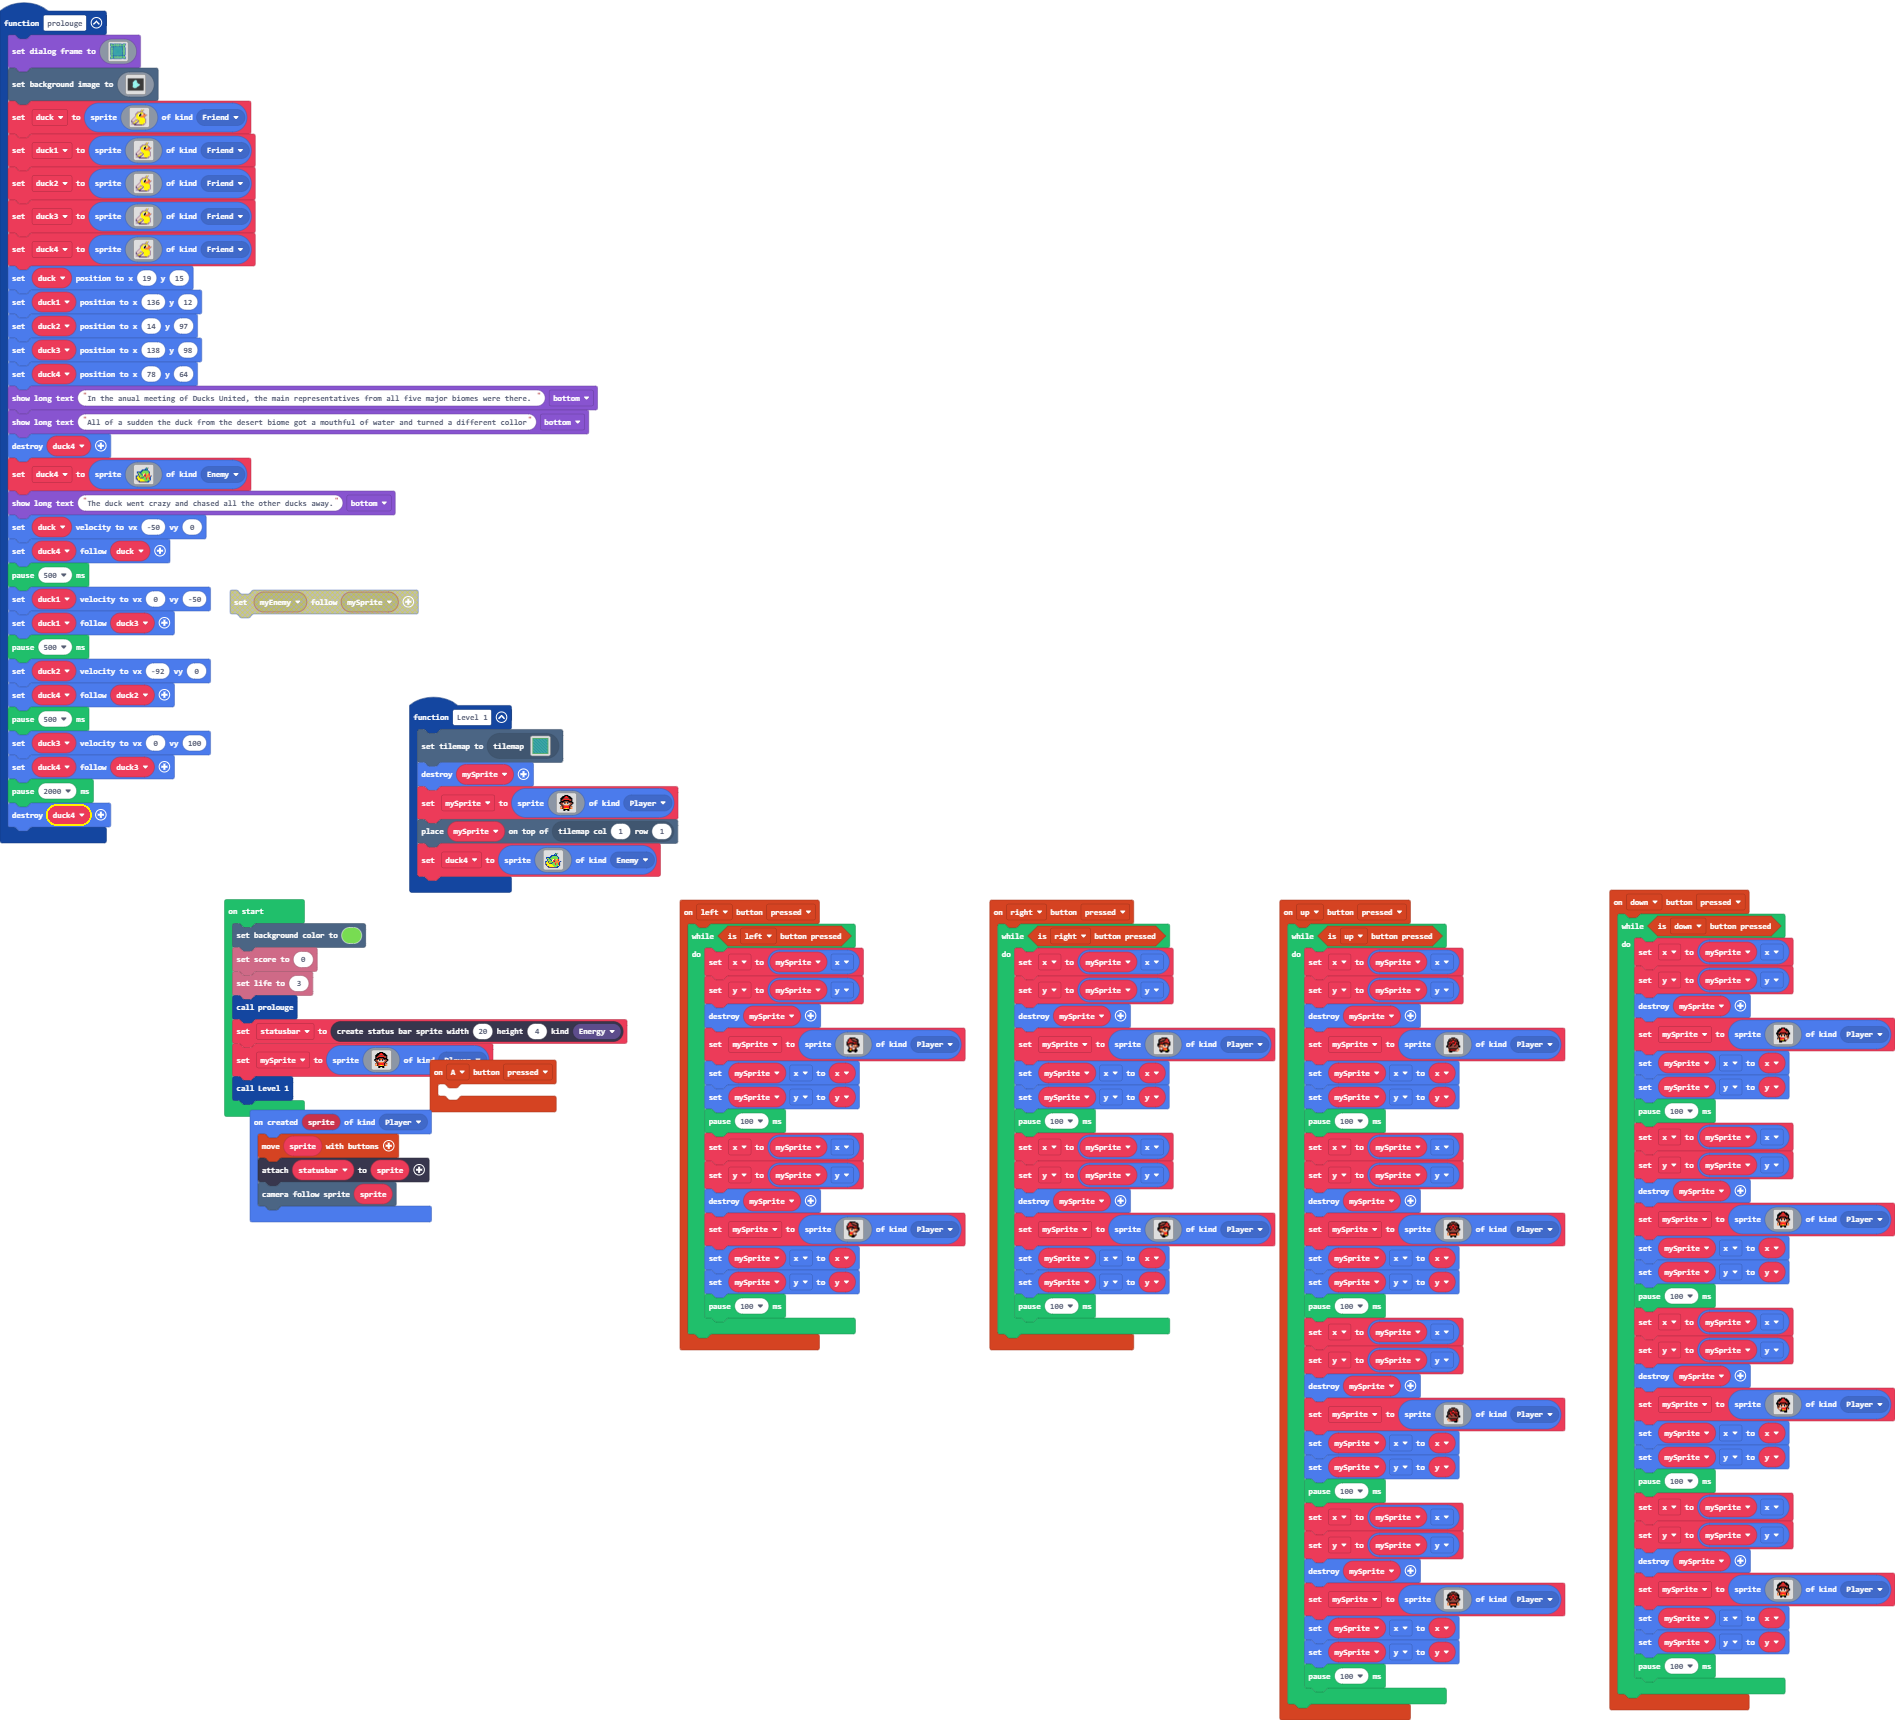
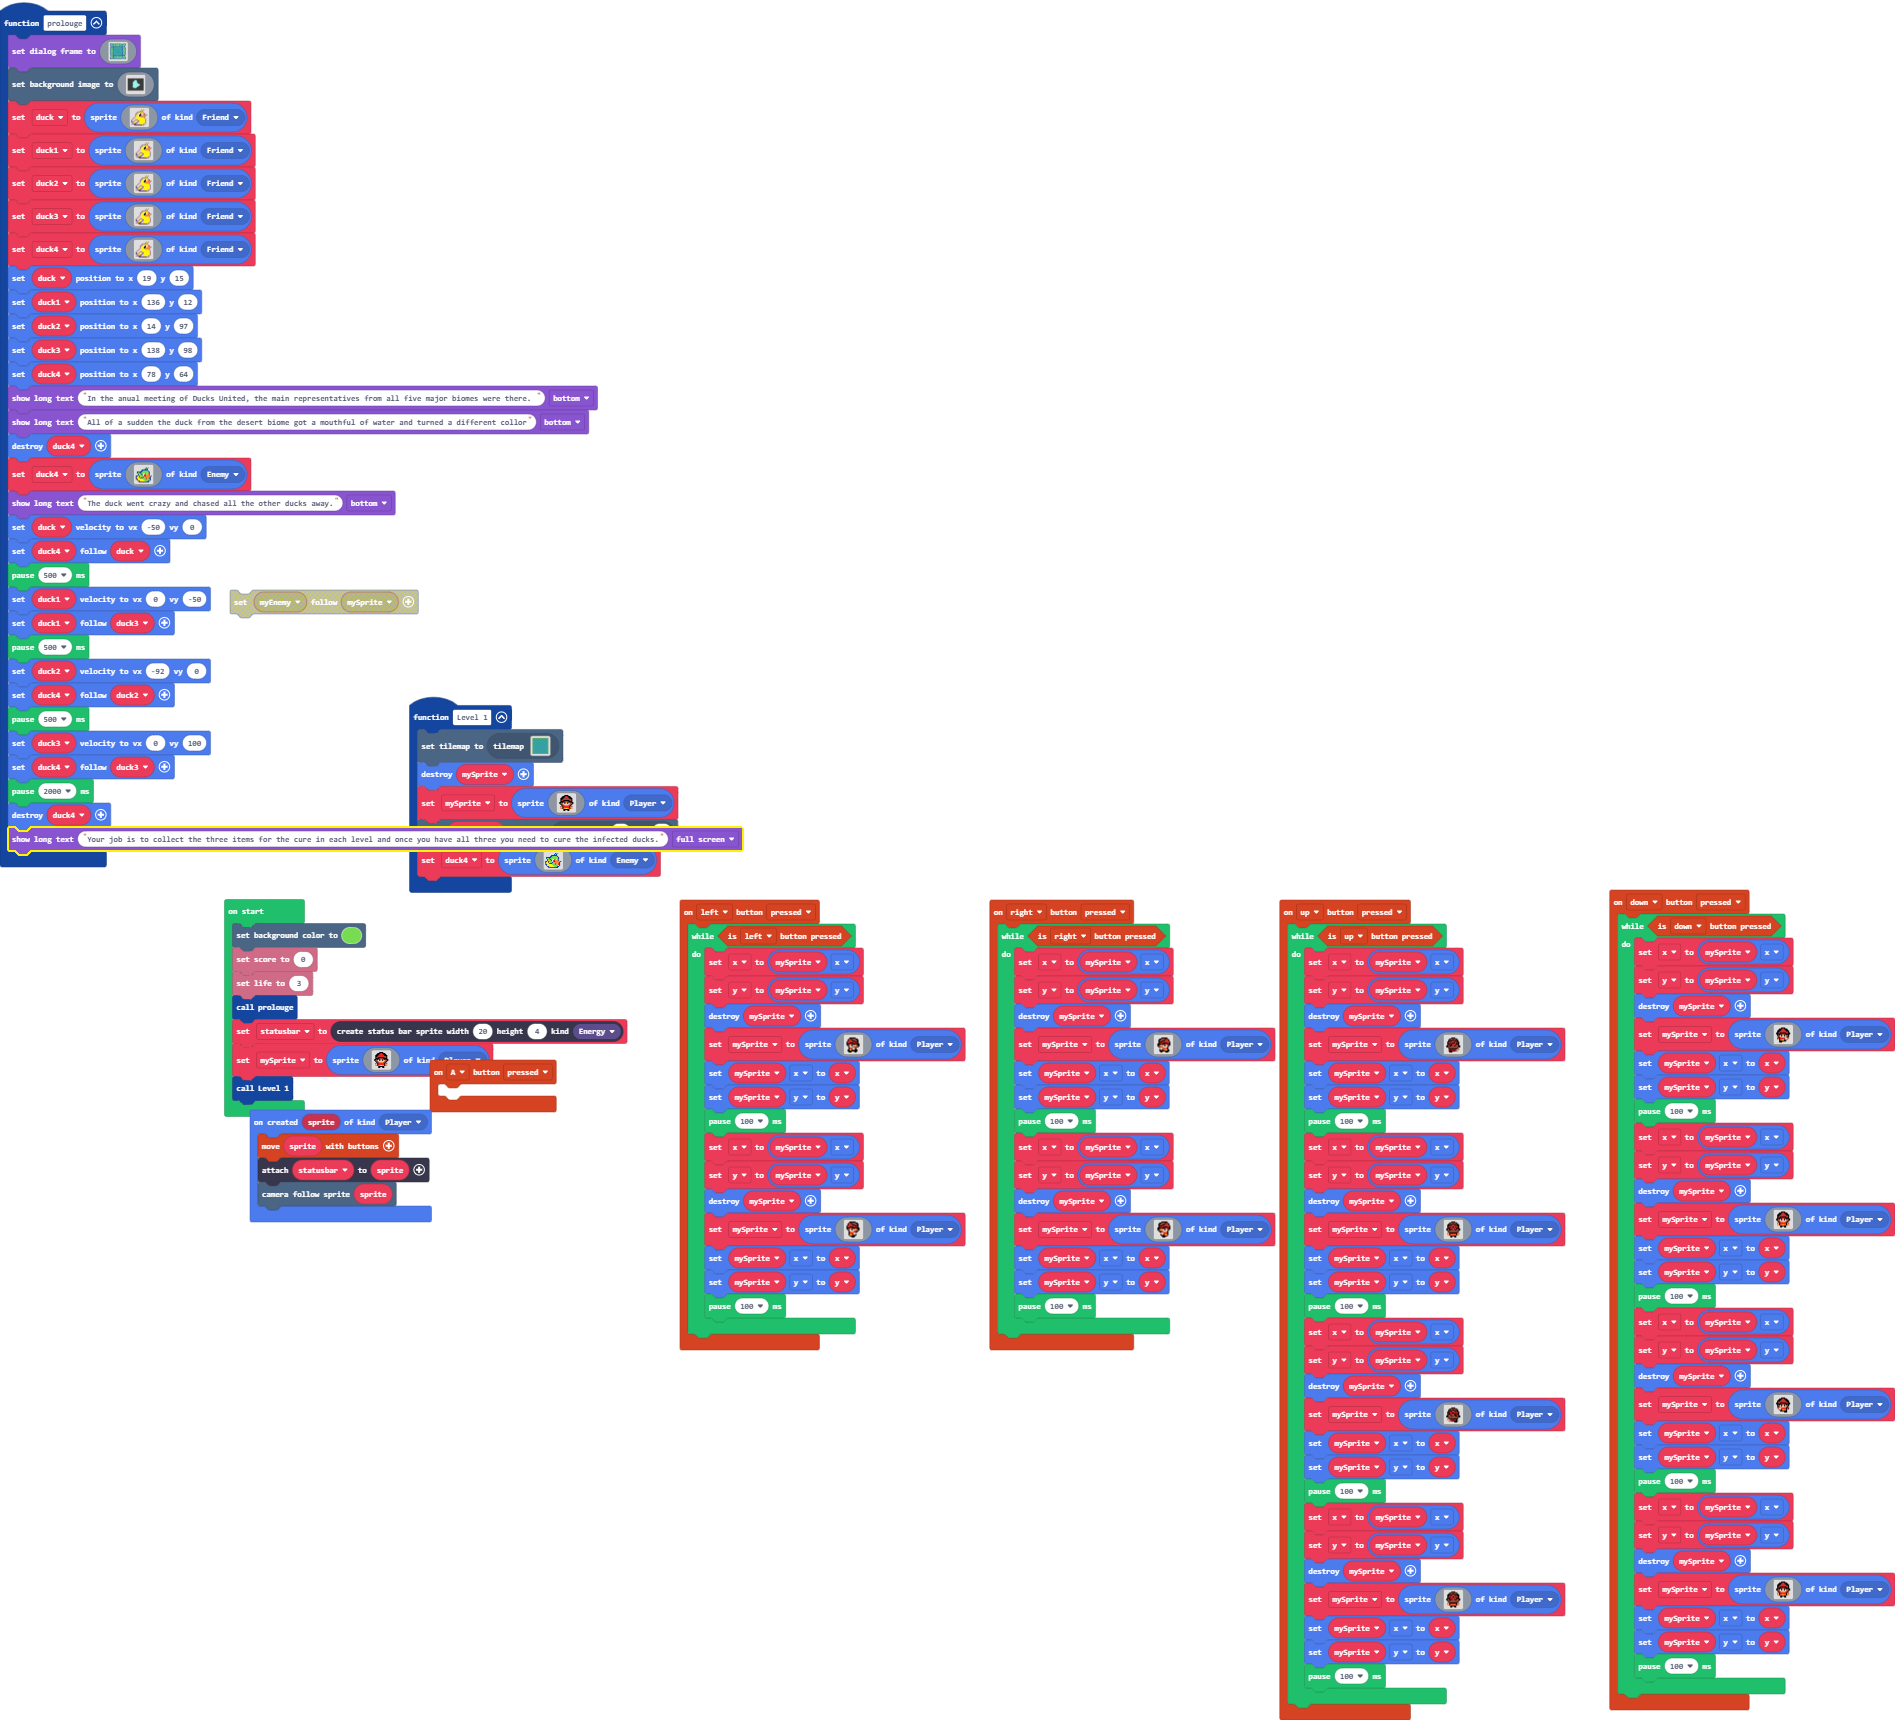
Update main.blocks, main.ts

Changed region(s): [[0.0, 0.4622, 0.4047, 0.5238]]

diff --git a/main.ts b/main.ts
@@ -444,6 +444,7 @@ function prolouge () {
     duck4.follow(duck3)
     pause(2000)
     sprites.destroy(duck4)
+    game.showLongText("Your job is to collect the three items for the cure in each level and once you have all three you need to cure the infected ducks.", DialogLayout.Full)
 }
 function Level_1 () {
     tiles.setCurrentTilemap(tilemap`level4`)
